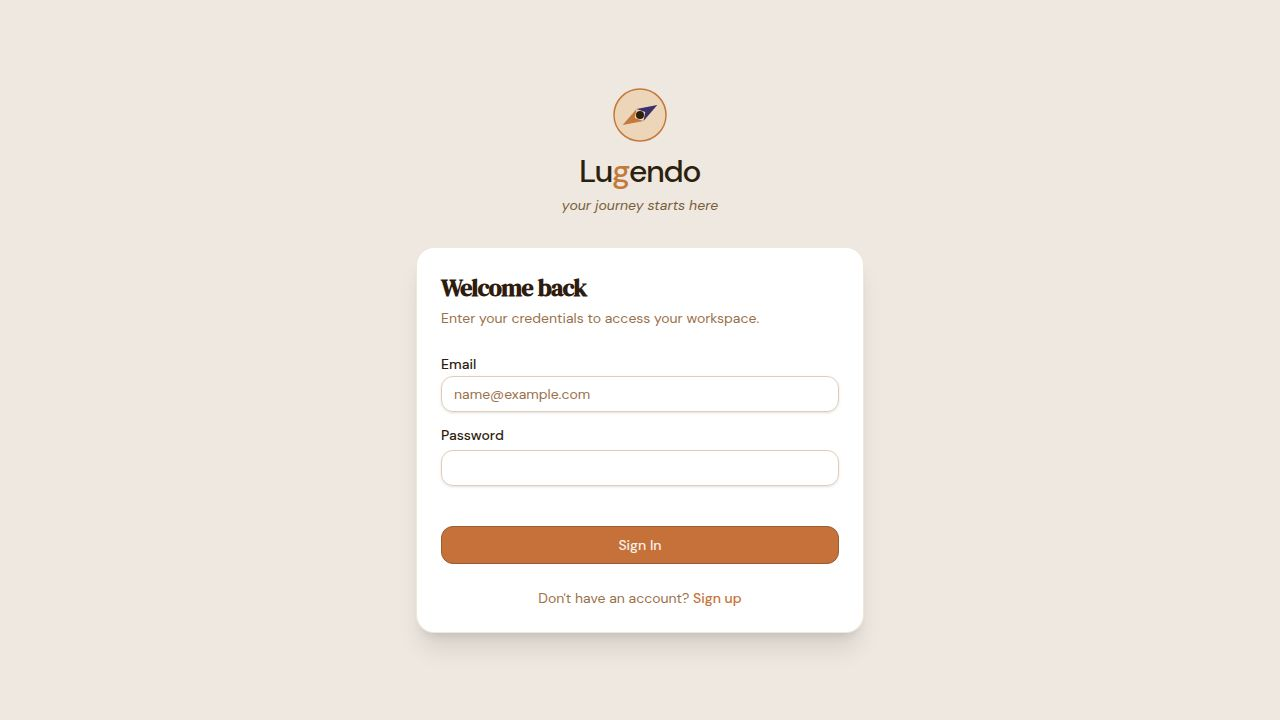
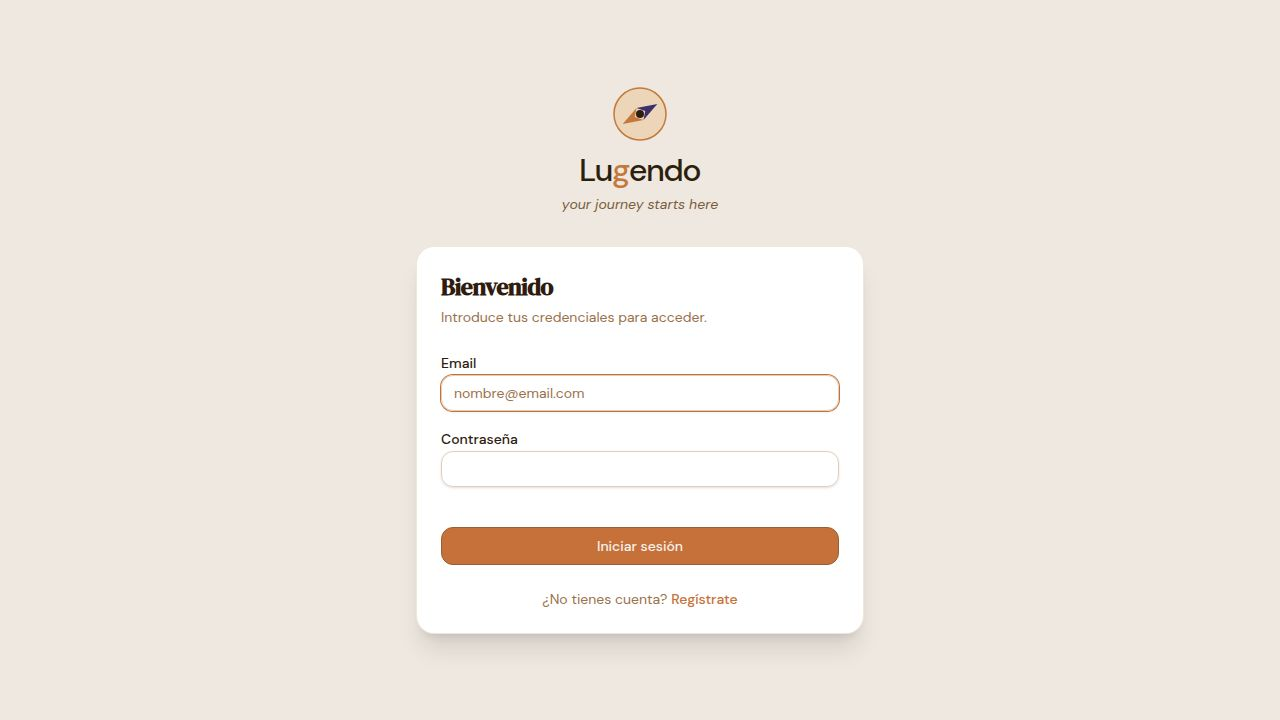
Improve user form handling and fix email input issues
Add null-safe checks to form validation and switch email inputs to use inputMode="email" within dialog components to resolve focus and submission errors.

Replit-Commit-Author: Agent
Replit-Commit-Session-Id: a2ffe4dc-e3dc-4e63-bd2e-850aecf765d8
Replit-Commit-Checkpoint-Type: full_checkpoint
Replit-Commit-Event-Id: 8505ea00-6f5d-4f29-a2f3-53cb8b522cc1
Replit-Commit-Screenshot-Url: https://storage.googleapis.com/screenshot-production-us-central1/65fa9fd7-4067-41c7-a676-4517384ee654/a2ffe4dc-e3dc-4e63-bd2e-850aecf765d8/Qi9yvIe
Replit-Helium-Checkpoint-Created: true

diff --git a/artifacts/lugendo-app/src/pages/team.tsx b/artifacts/lugendo-app/src/pages/team.tsx
@@ -95,9 +95,9 @@ function CreateUserDialog({ open, onClose }: { open: boolean; onClose: () => voi
   const passwordsMatch = form.password === form.confirm;
 
   const canSubmit =
-    form.firstName.trim() &&
-    form.lastName.trim() &&
-    form.email.trim() &&
+    (form.firstName ?? "").trim() &&
+    (form.lastName ?? "").trim() &&
+    (form.email ?? "").trim() &&
     form.role &&
     passwordStrong &&
     passwordsMatch &&
@@ -105,9 +105,9 @@ function CreateUserDialog({ open, onClose }: { open: boolean; onClose: () => voi
 
   const handleSubmit = () => {
     const errs: typeof errors = {};
-    if (!form.firstName.trim()) errs.firstName = "El nombre es obligatorio";
-    if (!form.lastName.trim()) errs.lastName = "Los apellidos son obligatorios";
-    if (!form.email.trim()) errs.email = "El email es obligatorio";
+    if (!(form.firstName ?? "").trim()) errs.firstName = "El nombre es obligatorio";
+    if (!(form.lastName ?? "").trim()) errs.lastName = "Los apellidos son obligatorios";
+    if (!(form.email ?? "").trim()) errs.email = "El email es obligatorio";
     if (!passwordStrong) errs.password = "La contraseña no cumple los requisitos";
     if (!passwordsMatch) errs.confirm = "Las contraseñas no coinciden";
     if (Object.keys(errs).length) { setErrors(errs); return; }
@@ -169,7 +169,10 @@ function CreateUserDialog({ open, onClose }: { open: boolean; onClose: () => voi
             <div className="col-span-2 sm:col-span-1">
               <label className="text-[12px] font-medium block mb-1.5" style={{ color: "#2D1F0E" }}>Email *</label>
               <Input
-                type="email"
+                inputMode="email"
+                autoComplete="email"
+                autoCapitalize="off"
+                autoCorrect="off"
                 placeholder="[email redacted]"
                 value={form.email}
                 onChange={e => { set({ email: e.target.value }); setErrors(er => ({ ...er, email: undefined })); }}
@@ -295,18 +298,18 @@ function EditUserDialog({ user, onClose }: { user: User; onClose: () => void }) 
   const passwordsMatch = changingPwd ? form.password === form.confirm  : true;
 
   const canSave =
-    form.firstName.trim() &&
-    form.lastName.trim() &&
-    form.email.trim() &&
+    (form.firstName ?? "").trim() &&
+    (form.lastName ?? "").trim() &&
+    (form.email ?? "").trim() &&
     passwordStrong &&
     passwordsMatch &&
     !updateUser.isPending;
 
   const handleSave = () => {
     const errs: typeof errors = {};
-    if (!form.firstName.trim()) errs.firstName = "El nombre es obligatorio";
-    if (!form.lastName.trim())  errs.lastName  = "Los apellidos son obligatorios";
-    if (!form.email.trim())     errs.email     = "El email es obligatorio";
+    if (!(form.firstName ?? "").trim()) errs.firstName = "El nombre es obligatorio";
+    if (!(form.lastName ?? "").trim())  errs.lastName  = "Los apellidos son obligatorios";
+    if (!(form.email ?? "").trim())     errs.email     = "El email es obligatorio";
     if (changingPwd && !passwordStrong) errs.password = "La contraseña no cumple los requisitos";
     if (changingPwd && !passwordsMatch) errs.confirm  = "Las contraseñas no coinciden";
     if (Object.keys(errs).length) { setErrors(errs); return; }
@@ -374,7 +377,10 @@ function EditUserDialog({ user, onClose }: { user: User; onClose: () => void }) 
             <div className="col-span-2 sm:col-span-1">
               <label className="text-[12px] font-medium block mb-1.5" style={{ color: "#2D1F0E" }}>Email *</label>
               <Input
-                type="email"
+                inputMode="email"
+                autoComplete="email"
+                autoCapitalize="off"
+                autoCorrect="off"
                 value={form.email}
                 onChange={e => { set({ email: e.target.value }); setErrors(er => ({ ...er, email: undefined })); }}
               />